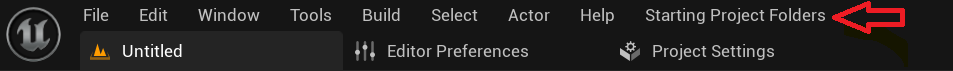
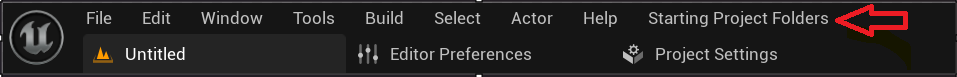
08MAY_filepathnameredo
changed it back to old file type and retook the picture using snipping tool.

diff --git a/ReadMe.md b/ReadMe.md
@@ -2,7 +2,7 @@
 
 This is a tool to create the starter files we always create in Unreal Engine, rather than manually creating the folders and naming them this tool does both.
 
-<img src = "assets/StartingProjectFolders.png">
+<img src = "assets/StartingProjectFolders.PNG">
 
 # How to Run
 
